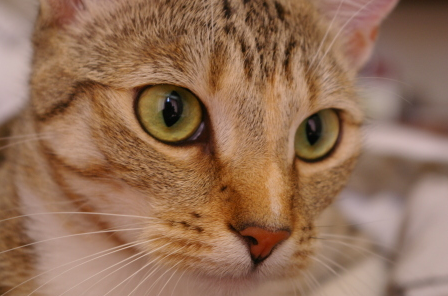
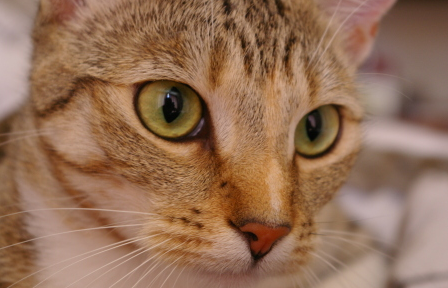
DQT and Downsampling working
Codigo de Mati practicamente terminado

diff --git a/jpeg_encoder_test.py b/jpeg_encoder_test.py
@@ -1,39 +1,65 @@
 import matplotlib.pyplot as plt
 import imageio as iio
 import numpy as np
-from scipy.fft import dct, idct
+from downsample import downsample, upsample
 from ycbcr import *
 from dqt import *
+from decode import *
 
+# Open original image
 im = iio.imread('chelsea.png')
+
+# Convert RGB data to the Y'CbCr color space
 im_ybr = rgb2ycbcr(im)
 
-im_jpeg = np.zeros((im_ybr.shape[0], im_ybr.shape[1]))
+# Perform chroma subsampling 4:2:0 (2x2)
+im_y = downsample(im_ybr[:, :, 0], 1, 1).astype(np.uint8)
+im_cb = downsample(im_ybr[:, :, 1], 2, 2).astype(np.uint8)
+im_cr = downsample(im_ybr[:, :, 2], 2, 2).astype(np.uint8)
 
-for y in range(0, len(im_ybr), 8):
-    for x in range(0, len(im_ybr[0]), 8):
-        block_y = im_ybr[y:y+8, x:x+8, 0]
-        block_shifted = np.subtract(block_y, 128, dtype=np.int8)
-
-        block_dct = dct(block_shifted)
-        block_dct = np.round(block_dct / dqt)
-
-        im_jpeg[y:y+8, x:x+8] = block_dct
+# Perform DCT and Quantization
+im_jpeg_y = dct_dqt(im_y, DQT_LUMA, 8)
+im_jpeg_cb = dct_dqt(im_cb, DQT_CHROMA, 8)
+im_jpeg_cr = dct_dqt(im_cr, DQT_CHROMA, 8)
 
 
-# Decoder:
 
-im_out = np.zeros((im_jpeg.shape[0], im_jpeg.shape[1]))
+## Decoder ##
 
-for y in range(0, len(im_jpeg), 8):
-    for x in range(0, len(im_jpeg[0]), 8):
+# Decode the image
+im_out_y = decode_jpeg(im_jpeg_y, DQT_LUMA, 8)
+im_out_cb = decode_jpeg(im_jpeg_cb, DQT_CHROMA, 8)
+im_out_cr = decode_jpeg(im_jpeg_cr, DQT_CHROMA, 8)
 
-        block_dct = im_jpeg[y:y+8, x:x+8] * dqt
+# Upsample using the nearest neighbour algorithm
+im_out_y = upsample(im_out_y, 1, 1)
+im_out_cb = upsample(im_out_cb, 2, 2)
+im_out_cr = upsample(im_out_cr, 2, 2)
 
-        block_idct = idct(block_dct).astype(np.int8)
-        im_out[y:y+8, x:x+8] = np.add(block_idct, 128).astype(np.uint8)
+# Reconstruct RGB image
+im_out_ybr = np.dstack((im_out_y, im_out_cb, im_out_cr))
+im_out_rgb = ycbcr2rgb(im_out_ybr)
 
-plt.imshow(im_out, cmap='gray')
+# Auxiliary images for displaying purposes
+im_ones = np.ones((im.shape[0], im.shape[1]))
+im_cb_rgb = ycbcr2rgb(np.dstack((im_ones*128, im_out_cb, im_ones*128)))
+im_cr_rgb = ycbcr2rgb(np.dstack((im_ones*128, im_ones*128, im_out_cr)))
+
+fig, ax = plt.subplots(2, 3, figsize=(12, 6), sharex=True, sharey=True)
+ax[0,0].imshow(im_out_rgb)
+ax[0,0].set_title('Decoded Image')
+ax[1,0].imshow(im_out_y, cmap='gray')
+ax[1,0].set_title('Y\' component')
+ax[0,1].imshow(im_cb_rgb)
+ax[0,1].set_title('Cb component')
+ax[1,1].imshow(im_cr_rgb)
+ax[1,1].set_title('Cr component')
+ax[0,2].imshow(im_out_cb, cmap='gray')
+ax[0,2].set_title('Cb component (grayscale)')
+ax[1,2].imshow(im_out_cr, cmap='gray')
+ax[1,2].set_title('Cr component (grayscale)')
+
+plt.savefig('plot.png', dpi=600)
 plt.show()
 
-iio.imsave('output.png', im_out)
+#iio.imsave('output.png', im_out)

diff --git a/dqt.py b/dqt.py
@@ -1,12 +1,37 @@
 import numpy as np
+from dct import *
 
 #https://www.impulseadventure.com/photo/jpeg-quantization.html
 
-dqt = np.array([[16, 11, 10, 16, 24,  40,  51,  61 ],
-                [12, 12, 14, 19, 26,  58,  60,  55 ],
-                [14, 13, 16, 24, 40,  57,  69,  56 ],
-                [14, 17, 22, 29, 51,  87,  80,  62 ],
-                [18, 22, 37, 56, 68,  109, 103, 77 ],
-                [24, 35, 55, 64, 81,  104, 113, 92 ],
-                [49, 64, 78, 87, 103, 121, 120, 101],
-                [72, 92, 95, 98, 112, 100, 103, 99 ] ], dtype=np.uint8)
+DQT_LUMA = np.array(   [[16, 11, 10, 16, 24,  40,  51,  61 ],
+                        [12, 12, 14, 19, 26,  58,  60,  55 ],
+                        [14, 13, 16, 24, 40,  57,  69,  56 ],
+                        [14, 17, 22, 29, 51,  87,  80,  62 ],
+                        [18, 22, 37, 56, 68,  109, 103, 77 ],
+                        [24, 35, 55, 64, 81,  104, 113, 92 ],
+                        [49, 64, 78, 87, 103, 121, 120, 101],
+                        [72, 92, 95, 98, 112, 100, 103, 99 ] ])
+          
+DQT_CHROMA = np.array( [[17, 18, 24, 47, 99, 99, 99, 99],
+                        [18, 21, 26, 66, 99, 99, 99, 99],
+                        [24, 26, 56, 99, 99, 99, 99, 99],
+                        [47, 66, 99, 99, 99, 99, 99, 99],
+                        [99, 99, 99, 99, 99, 99, 99, 99],
+                        [99, 99, 99, 99, 99, 99, 99, 99],
+                        [99, 99, 99, 99, 99, 99, 99, 99],
+                        [99, 99, 99, 99, 99, 99, 99, 99] ])
+
+def dct_dqt(im, dqt = DQT_LUMA, block_size = 8):
+    im_out = np.zeros_like(im, dtype=np.float64)
+
+    for j in range(0, len(im), block_size):
+        for i in range(0, len(im[0]), block_size):
+            block = im[j:j+block_size, i:i+block_size]
+            block_shifted = np.subtract(block, 128, dtype=np.int8)  # Cast to signed integers
+
+            block_dct = dct(block_shifted)
+            block_dct_q = np.round(block_dct / dqt)
+        
+            im_out[j:j+block_size, i:i+block_size] = block_dct_q
+
+    return im_out

diff --git a/ycbcr.py b/ycbcr.py
@@ -10,10 +10,10 @@ def rgb2ycbcr(im_rgb):
     return im_ybr
 
 def ycbcr2rgb(im_ybr):
-    im_rgb = np.zeros_like(im_ybr, dtype=np.uint8)
+    im_rgb = np.zeros_like(im_ybr, dtype=np.float64)
     for y, row in enumerate(im_ybr):
         for x, pixel in enumerate(row):
             im_rgb[y][x][0] = pixel[0] + 0        * (pixel[1] - 128) + 1.402    * (pixel[2] - 128)
             im_rgb[y][x][1] = pixel[0] - 0.344136 * (pixel[1] - 128) - 0.714136 * (pixel[2] - 128)
             im_rgb[y][x][2] = pixel[0] + 1.772    * (pixel[1] - 128) + 0        * (pixel[2] - 128)
-    return im_rgb
+    return np.clip(im_rgb, 0, 255).astype(np.uint8)

diff --git a/decode.py b/decode.py
@@ -1,0 +1,12 @@
+from dqt import *
+
+def decode_jpeg(im_jpeg, table=DQT_LUMA, block_size=8):
+    im_out = np.zeros((im_jpeg.shape[0], im_jpeg.shape[1]), np.uint8)
+
+    for y in range(0, len(im_jpeg), block_size):
+        for x in range(0, len(im_jpeg[0]), block_size):
+            block_dct = im_jpeg[y:y+block_size, x:x+block_size] * table
+            block_idct = idct(block_dct)
+            im_out[y:y+block_size, x:x+block_size] = np.clip(block_idct + 128, 0, 255)
+
+    return im_out

diff --git a/downsample.py b/downsample.py
@@ -1,0 +1,12 @@
+import numpy as np
+
+def downsample(x, h=2, v=2):
+    '''Downsampling with averaging'''
+    avg_h = lambda m: np.mean(m.reshape(-1, h), 1)
+    x_ds = np.apply_along_axis(avg_h, 1, x)
+    avg_v = lambda m: np.mean(m.reshape(-1, v), 1)
+    return np.apply_along_axis(avg_v, 0, x_ds)
+
+def upsample(x, h=2, v=2):
+    '''Nearest Neighbour interpolation'''
+    return np.repeat(np.repeat(x, h, 1), v, 0)

diff --git a/dct.py b/dct.py
@@ -1,0 +1,10 @@
+from scipy import fft
+
+def dct(x):
+    X = fft.dct(x)
+    return X
+
+    
+def idct(X):
+    x = fft.idct(X)
+    return x
